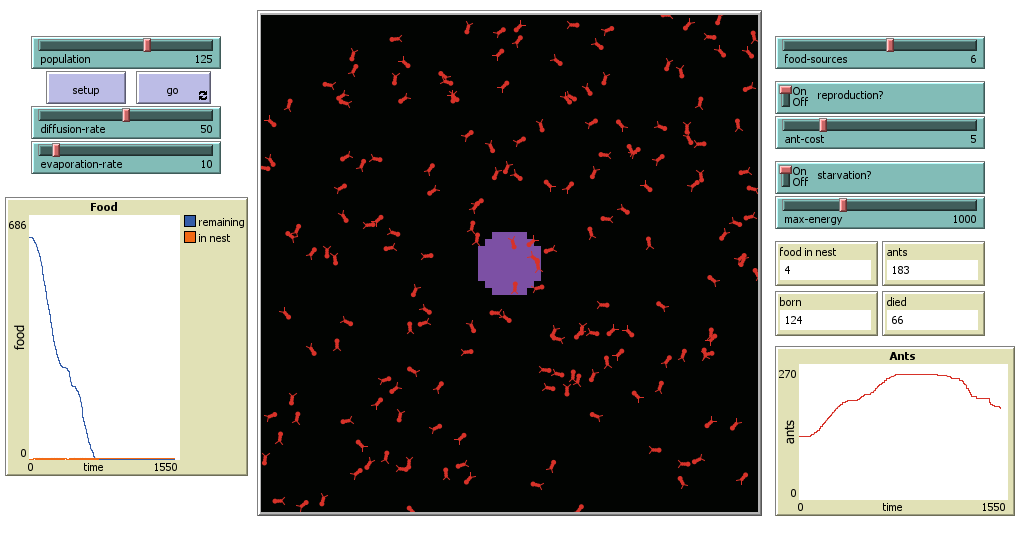
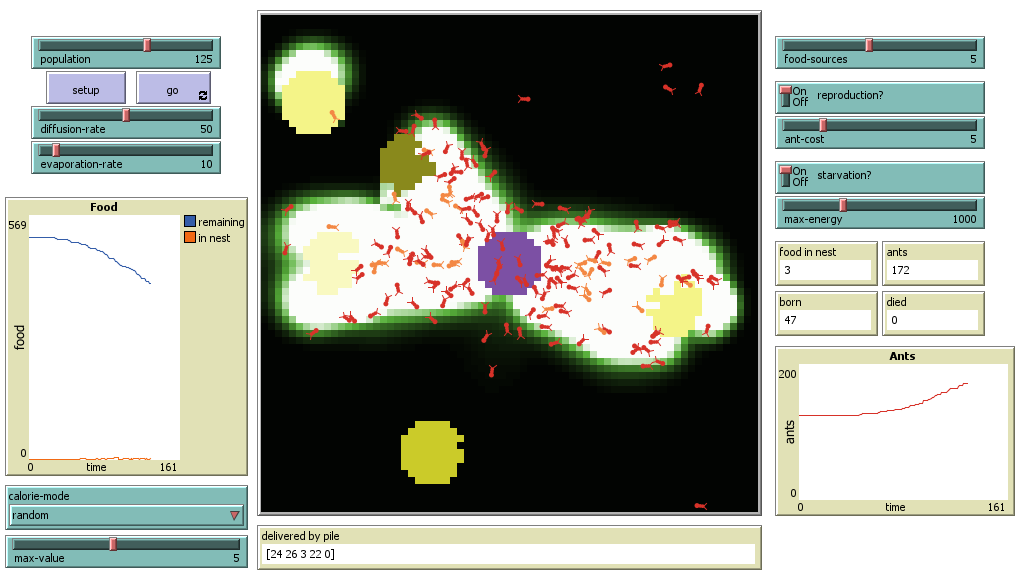
ЛР2: калорійність купок їжі та експеримент 2

diff --git a/Lab2/README.md b/Lab2/README.md
@@ -93,6 +93,8 @@ if departure >= ticks [ stop ] ;; delay initial departure
 
 ### Внесені зміни у вихідну логіку моделі, на власний розсуд:
 
+Додано дві власні зміни: загибель мурах від голоду та калорійність купок їжі.
+
 **Загибель мурах від голоду.** В оригінальній моделі мурахи безсмертні; разом з появою нових мурах це давало б необмежене зростання колонії. Тому додано перемикач `starvation?` та слайдер `max-energy`. Кожна мураха має запас сил `energy`: він зменшується на 1 щотакту, відновлюється до `max-energy`, коли мураха знаходить їжу (підкріплюється біля джерела), а коли доходить до нуля — мураха гине:
 <pre>
 to starve  ;; turtle procedure
@@ -114,7 +116,39 @@ to look-for-food  ;; turtle procedure
 </pre>
 Мурахи, що ще чекають виходу в гнізді, сил не витрачають. Тепер колонія росте, поки є їжа, а коли всі джерела вичерпано — поступово вимирає, що відповідає поведінці реальної колонії без ресурсів.
 
-При вимкнених `reproduction?` і `starvation?` та `food-sources = 3` модель поводиться так само, як оригінал (з тією різницею, що джерела стоять у випадкових місцях).
+**Калорійність купок їжі.** В оригінальній моделі вся їжа однакова, і мурахам байдуже, з якої купки її носити. Тому додано калорійність: вибір `calorie-mode` та слайдер `max-value`. Кожна купка отримує одну калорійність на всі свої клітинки (нова змінна клітинки `food-value`):
+- `"off"` — усі купки мають калорійність 1 (як в оригіналі);
+- `"random"` — кожна купка отримує випадкову калорійність від 1 до `max-value`;
+- `"one rich"` — купка №1 має калорійність `max-value`, решта 1 (режим для експерименту).
+
+<pre>
+to-report pile-value [ number ]
+  if calorie-mode = "random" [ report 1 + random max-value ]
+  if calorie-mode = "one rich" [ report ifelse-value (number = 1) [ max-value ] [ 1 ] ]
+  report 1
+end
+</pre>
+Значення обчислюється в `setup-food` один раз для кожної купки (`let value pile-value number`) і записується в `food-value` усіх її клітинок. Колір купки показує калорійність: чим світліше жовтий, тим калорійніше (`scale-color yellow food-value -1 (max-value + 1)`).
+
+Мураха дізнається калорійність лише тоді, коли бере їжу, і запам'ятовує її разом з номером купки (нові змінні мурахи `carried-value` і `carried-source`). Порівнювати купки вона не вміє. Калорійність впливає на дві речі:
+<pre>
+to return-to-nest  ;; turtle procedure
+  ifelse nest?
+  [ set food-in-nest food-in-nest + carried-value
+    set delivered replace-item (carried-source - 1) delivered
+                               (item (carried-source - 1) delivered + 1)
+    set color red
+    rt 180 ]
+  [ set chemical chemical + 60 * carried-value
+    uphill-nest-scent ]
+end
+</pre>
+1. Дорогою додому мураха залишає в `carried-value` разів більше феромону, тому слід до калорійної купки сильніший, довше не випаровується і ширше розтікається. На нього натрапляє більше мурах. Тобто пріоритет калорійної купки виникає не з рішення окремої мурахи, а у колонії в цілому, через слід — так поводяться й справжні мурахи.
+2. У гніздо потрапляють калорії, тому калорійна їжа швидше дає нових мурах.
+
+Також додано глобальний список `delivered` (скільки порцій принесено з кожної купки) та монітор «delivered by pile».
+
+При вимкнених `reproduction?` і `starvation?`, `calorie-mode = "off"` та `food-sources = 3` модель поводиться так само, як оригінал (з тією різницею, що джерела стоять у випадкових місцях).
 
 <br>
 
@@ -156,3 +190,38 @@ to look-for-food  ;; turtle procedure
 З появою нових мурах крива стає значно пологішою: колонія, що почала з 10 мурах, збирає їжу за ~4000 тактів, а з 25 — за ~1700, тобто в 3,7–4,3 раза швидше. Кожна п'ята принесена одиниця їжі перетворюється на нову мураху, тому мала колонія швидко виростає (з 10 до ~70 мурах) і далі працює як велика. При 100–150 початкових мурахах ефект майже зникає (прискорення в 1,1–1,2 раза): мурах і так достатньо для стійких слідів до всіх джерел, а нові з'являються, коли значна частина їжі вже зібрана.
 
 **Висновок.** Поява нових мурах послаблює залежність часу збору від початкової кількості мурах: колонія сама «нарощує» чисельність до рівня, достатнього для утворення стійких слідів. Найбільший ефект — для малих колоній (до 50 мурах), для великих він незначний. Кількість мурах наприкінці прогону дорівнює початковій плюс приблизно `зібрана їжа / ant-cost`, що підтверджує коректність роботи нової логіки.
+
+### 2. Вплив калорійності купки на те, звідки колонія збирає їжу
+Досліджується, чи надає колонія перевагу калорійнішій купці. Використовується режим **calorie-mode** = "one rich": купка №1 має калорійність **max-value**, дві інші — 1. Показник — частка порцій їжі, принесених з багатої купки за перші 400 тактів (без калорійності, коли всі купки однакові, мурахи носять їжу переважно з найближчої купки). Додатково фіксувався такт, на якому багату купку повністю зібрано.
+
+Значення **max-value**: 1, 2, 3, 4, 5 (при 1 усі купки однакові — це базовий варіант для порівняння). Щоб порівняння було коректним, використано 30 різних розстановок купок (random-seed від 1 до 30), і для кожної розстановки прогнано всі п'ять значень **max-value**: купки стоять на тих самих місцях, змінюється лише калорійність купки №1 (усього 150 прогонів). Прогони виконувалися без графічного інтерфейсу (headless).
+
+Інші керуючі параметри:
+- **population**: 125
+- **food-sources**: 3
+- **reproduction?**: off, **starvation?**: off
+- **diffusion-rate**: 50, **evaporation-rate**: 10
+
+<table>
+<thead>
+<tr><th rowspan="2">max-value</th><th colspan="3">Частка їжі з багатої купки за 400 тактів, %</th><th rowspan="2">Багату купку зібрано, такт (усі)</th></tr>
+<tr><th>усі 30 розстановок</th><th>багата купка найдальша (12)</th><th>не найдальша (18)</th></tr>
+</thead>
+<tbody>
+<tr><td>1</td><td>32,9</td><td>8,6</td><td>49,1</td><td>453</td></tr>
+<tr><td>2</td><td>41,2</td><td>24,6</td><td>52,2</td><td>370</td></tr>
+<tr><td>3</td><td>44,6</td><td>29,4</td><td>54,7</td><td>336</td></tr>
+<tr><td>4</td><td>45,0</td><td>27,5</td><td>56,7</td><td>346</td></tr>
+<tr><td>5</td><td>46,0</td><td>32,4</td><td>55,0</td><td>333</td></tr>
+</tbody>
+</table>
+
+Результати окремих прогонів: [lab2_calories_raw.csv](lab2_calories_raw.csv).
+
+![Залежність частки їжі з багатої купки від її калорійності](calories_chart.png)
+
+Колонія справді надає перевагу калорійнішій купці: в середньому по всіх розстановках частка їжі з неї зростає з 33 % до 46 %, а зібрано її на ~120 тактів раніше (453 проти 333). Найсильніше ефект проявляється, коли багата купка розташована найдальше від гнізда: без калорійності мурахи майже не носять з неї їжу на початку (8,6 % — вона залишається «на потім»), а з калорійністю 5 частка зростає до 32 %, тобто майже в 4 рази. Колонія частково «переключається» на далеку, але калорійну купку, хоча ближні купки ще не зібрані. Якщо ж багата купка і так не найдальша, приріст помірний (з 49 % до 55 %): її й без калорійності збирають серед перших.
+
+Ефект насичується вже при калорійності 2–3: подальше збільшення майже нічого не дає. Ймовірна причина — в оригінальній логіці мурахи реагують на слід лише при концентрації від 0,05 до 2 (`(chemical >= 0.05) and (chemical < 2)`), тому сильніший слід допомагає лише тим, що довше живе і ширше розтікається, а не тим, що сильніше «притягує».
+
+**Висновок.** Калорійність працює як механізм вибору джерела: калорійна купка отримує сильніший слід і збирається раніше, причому найбільше це помітно для далеких купок, які без калорійності збираються останніми. «Переключення» колонії неповне — навіть при калорійності 5 більшість їжі на початку все одно приноситься з ближніх купок, бо до них вже прокладені сліди.
